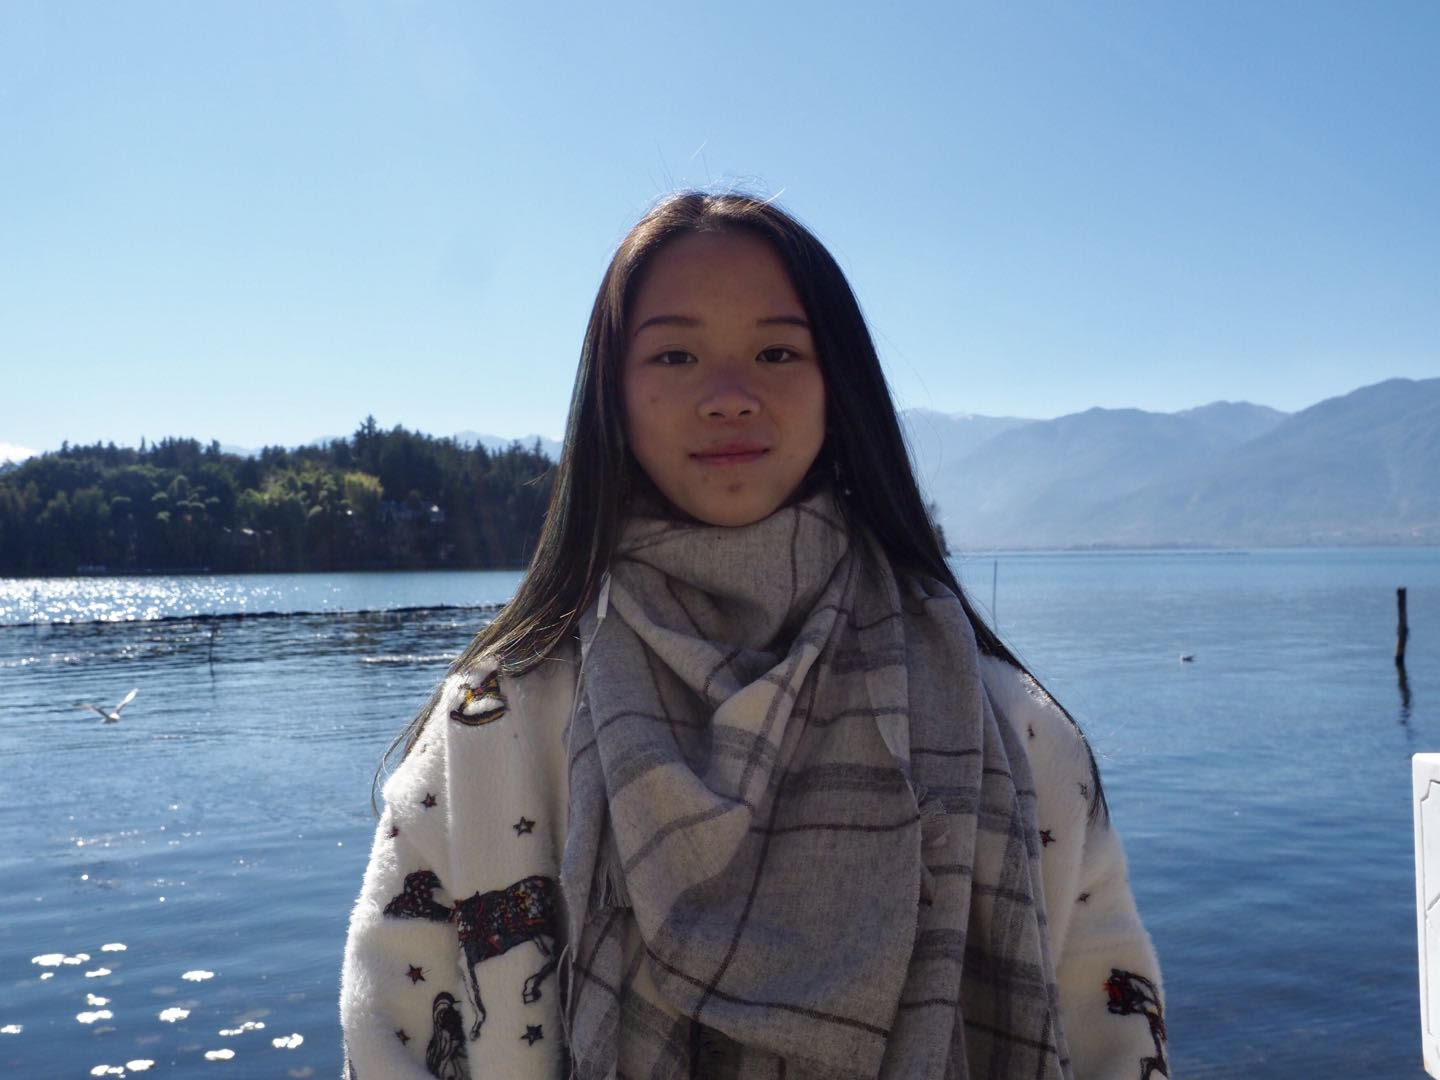
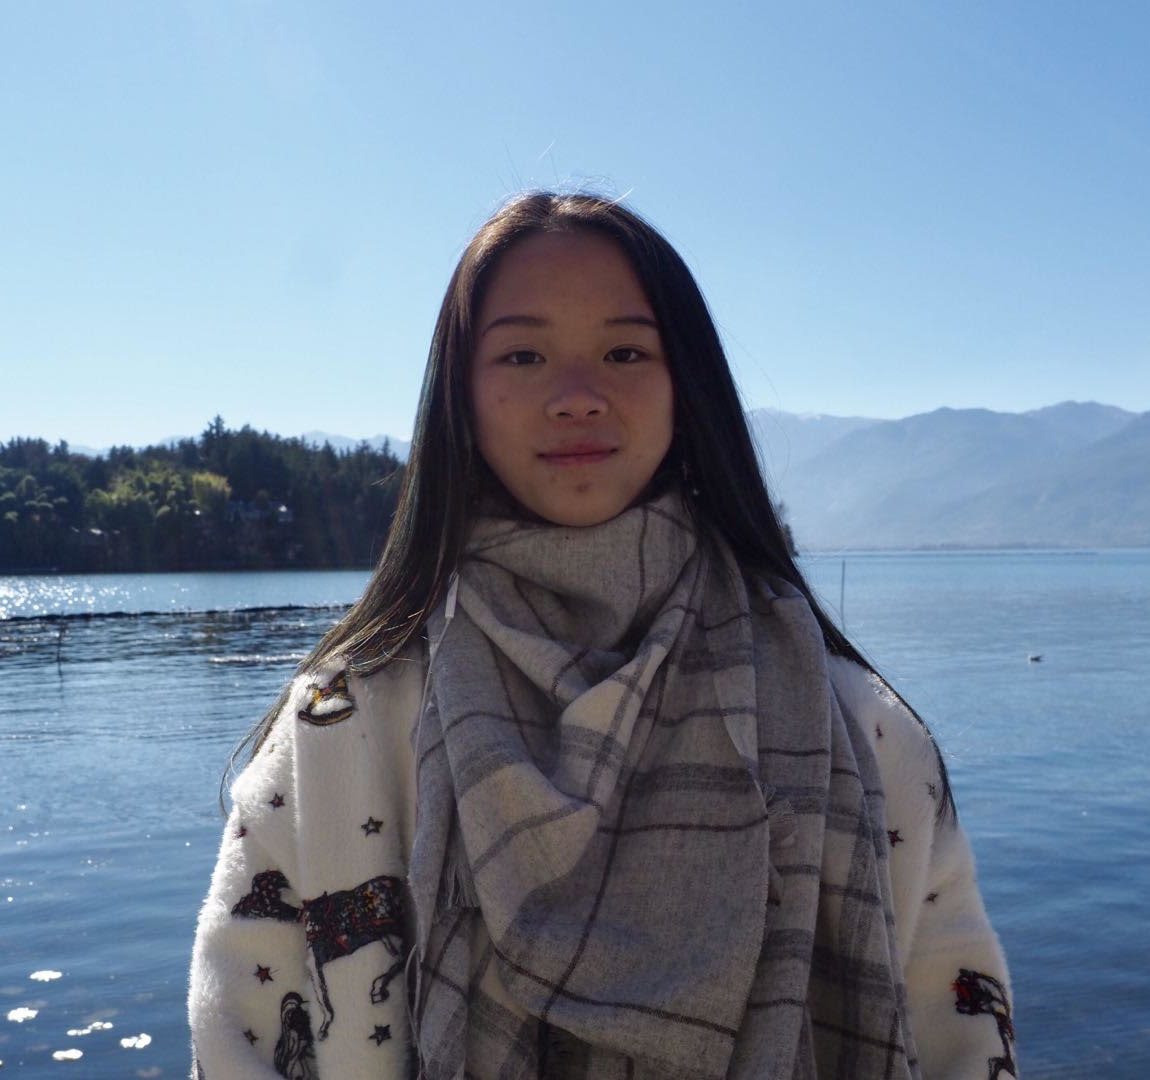
fixed image stretching

diff --git a/members.py b/members.py
@@ -27,59 +27,94 @@ members = {
             "personal": "",
             "img": "img/staff/rileymcdanal.jpg"
         },
-        "Annelise Meyer": {
-            "title": "Vice Research Director",
-            "email": "annelise.meyer@berkeley.edu",
-            "linkedin": "www.linkedin.com/in/annelise-meyer/ ",
-            "facebook": "www.facebook.com/anna.meyer.16718 ",
-            "github": "",
-            "personal": "",
-            "img": ""
-        },
+        # "Annelise Meyer": {
+        #     "title": "Vice Research Director",
+        #     "email": "annelise.meyer@berkeley.edu",
+        #     "linkedin": "www.linkedin.com/in/annelise-meyer/ ",
+        #     "facebook": "www.facebook.com/anna.meyer.16718 ",
+        #     "github": "",
+        #     "personal": "",
+        #     "img": ""
+        # },
         "Hareen Seerha": {
-            "title": "Lab Manager",
+            "title": "Research Director",
             "email": "hareen_seerha@berkeley.edu",
             "linkedin": "",
             "facebook": "www.facebook.com/hareen.seerha",
             "github": "",
             "personal": "",
-            "img": "img/staff/hareenseerha1.png"
+            "img": "img/staff/hareenseerha.jpg"
         },
-        "Valerie Burleigh": {
+        # "Valerie Burleigh": {
+        #     "title": "Operations Director",
+        #     "email": "valerie.burleigh@berkeley.edu",
+        #     "linkedin": "www.linkedin.com/in/valerieannburleigh/",
+        #     "facebook": "www.facebook.com/valerie.burleigh.3",
+        #     "github": "",
+        #     "personal": "",
+        #     "img": ""
+        # },
+        # "Stephanie Chang": {
+        #     "title": "Vice Operations Director",
+        #     "email": "stephanieychang@berkeley.edu",
+        #     "linkedin": "www.linkedin.com/in/stephanie-chang-a97457155/",
+        #     "facebook": "",
+        #     "github": "",
+        #     "personal": "",
+        #     "img": "img/staff/stephaniechang.jpg"
+        # },
+        # "Adam Bittenson": {
+        #     "title": "Finance Director",
+        #     "email": "abittenson@berkeley.edu",
+        #     "linkedin": "www.linkedin.com/in/adam-bittenson-368507163",
+        #     "facebook": "www.facebook.com/profile.php?id=100000579046414",
+        #     "github": "",
+        #     "personal": "",
+        #     "img": "img/staff/adambittenson.png"
+        # },
+        # "Allie Morehouse": {
+        #     "title": "Curriculum and Advising Director",
+        #     "email": "amorehouse@berkeley.edu",
+        #     "linkedin": "www.linkedin.com/in/allison-morehouse-6bb63a139/",
+        #     "facebook": "",
+        #     "github": "",
+        #     "personal": "",
+        #     "img": "img/staff/alliemorehouse.jpg"
+        # },
+        "Shreeya Garg": {
+            "title": "Lab Manager",
+            "email": "shreeyagarg@berkeley.edu",
+            "img": "img/staff/shreeyagarg.jpg"
+        },
+        "Rajan Parikh": {
+            "title": "Lab Manager",
+            "email": "rajanjparikh@berkeley.edu",
+            "img": "img/staff/rajanparikh.jpg"
+        },
+        "Lexi Zhou": {
             "title": "Operations Director",
-            "email": "valerie.burleigh@berkeley.edu",
-            "linkedin": "www.linkedin.com/in/valerieannburleigh/",
-            "facebook": "www.facebook.com/valerie.burleigh.3",
-            "github": "",
-            "personal": "",
-            "img": ""
+            "email": "lexizczh@berkeley.edu",
+            "img": "img/staff/lexizhou.jpg"
         },
-        "Stephanie Chang": {
-            "title": "Vice Operations Director",
-            "email": "stephanieychang@berkeley.edu",
-            "linkedin": "www.linkedin.com/in/stephanie-chang-a97457155/",
-            "facebook": "",
-            "github": "",
-            "personal": "",
-            "img": "img/staff/stephaniechang.jpg"
+        "Ashish Ramesh": {
+            "title": "Website Manager",
+            "email": "ashishrameshg@berkeley.edu",
+            "img": "img/staff/ashishramesh.jpg"
         },
-        "Adam Bittenson": {
+        "Arushi Sahay": {
+            "title": "Social Chair",
+            "email": "arushisahay@berkeley.edu",
+            "img": "img/staff/arushisahay.jpg"
+        },
+        "Josephine Widjaja": {
+            "title": "Editor-in-Chief",
+            "email": "josephine.widjaja@berkeley.edu",
+            "img": "img/staff/josephinewidjaja.jpg"
+        },
+        "Samadi Karunasundera": {
             "title": "Finance Director",
-            "email": "abittenson@berkeley.edu",
-            "linkedin": "www.linkedin.com/in/adam-bittenson-368507163",
-            "facebook": "www.facebook.com/profile.php?id=100000579046414",
-            "github": "",
-            "personal": "",
-            "img": "img/staff/adambittenson.png"
-        },
-        "Allie Morehouse": {
-            "title": "Curriculum and Advising Director",
-            "email": "amorehouse@berkeley.edu",
-            "linkedin": "www.linkedin.com/in/allison-morehouse-6bb63a139/",
-            "facebook": "",
-            "github": "",
-            "personal": "",
-            "img": "img/staff/alliemorehouse.jpg"
+            "email": "",
+            "img": ""
         },
         "Colin Jindra": {
             "title": "Lead Mentor",

diff --git a/content.py b/content.py
@@ -25,7 +25,7 @@ labs = {
             "full_name": u"Psychology and Cognitive Sciences",
             "navbar": u"Cog_Sci",
             "status": "Active",
-            "members": ["Riley McDanal", "Annelise Meyer", "Hareen Seerha", "Valerie Burleigh", "Stephanie Chang", "Adam Bittenson", "Allie Morehouse"],
+            "members": ["Hareen Seerha", "Shreeya Garg", "Rajan Parikh", "Lexi Zhou", "Ashish Ramesh", "Arushi Sahay", "Josephine Widjaja", "Samadi Karunasundera"],
             "content": {
                 "overview": {
                     "title": "Lab Overview",
